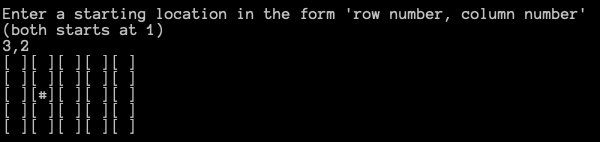
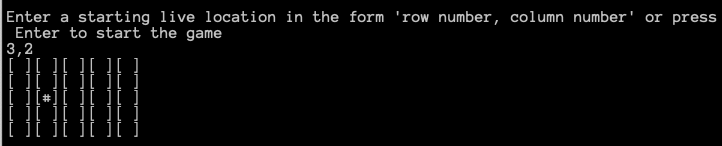
readme updated

Changed region(s): [[0.0, 0.0, 1.0, 1.0]]

diff --git a/README.md b/README.md
@@ -44,7 +44,7 @@ If using the CLI:
 1. CD into the ```kata_conways_game_of_life``` project
 2. Enter ```dotnet run Program.cs``` and press Enter to run
 
-# Deployment
+# Local Deployment
 
 1. Enter ```dotnet publish``` in the CLI
 2. To run the resultant application, navigate into the ```publish``` folder. The folder can be found within the ```bin``` directory. The path may be similar to this: ```<solution directory>/bin/Debug/netcoreapp3.1/publish```.
@@ -55,12 +55,10 @@ To run the published application, enter ```dotnet kata_conways_game_of_life.dll`
 ![Enter grid dimensions](images/app1.png)  
 2. Enter a coordinate in the form x,y to specify a starting live cell location
 ![Enter grid dimensions](images/app2.png)  
-3. Enter ```y``` to add another starting live cell location  
-![Enter grid dimensions](images/app3.png)  
-4. Repeat steps 2 and 3 until you no longer wish to add more starting live cell locations
-5. Enter any key other than ```y``` to begin the game
-6. The grid configuration will automatically update every second
-7. Once all the cells are dead or no cells will change state at the next tick, the application will terminate.
+3. Repeat step 2 to add additional coordinates
+4. Press Enter to begin the game
+5. The grid configuration will automatically update every second
+6. Once all the cells are dead or no cells will change state at the next tick, the application will terminate.
 
 ## Unit tests
 
@@ -80,10 +78,10 @@ The grid tests makes use of concrete ```Cell``` and ```Location``` objects to ch
 The ```Game``` tests uses concrete ```Grid```, ```Location``` and ```Cell``` objects to test the interaction of these different classes together. The final grid display ```string``` is used to check that the game loop has been executed correctly and that the resultant grid configuration is correct when given a starting configuration. The starting configuration is obtained by using a Mock IInput object to specify the starting live locations. 
 
 ### Validator tests  
-The ```Validator``` class methods returns a boolean to indicate if the input data is valid. The validator tests are used to verify that the validator methods' conditions are correct.  
+The ```Validator``` class methods returns a ```ValidationResult``` object to indicate if the input data is valid. If the parsed input is invalid, an error message will be stored. If the input is valid, the result will be stored. The validator tests are used to verify that the validator is returning either a result or error message as expected. 
 
 ### InputParser tests  
-The ```InputParser``` class methods are used to parse input data from string to either integer or boolean data types if the given input is valid. The tests are used to check that the recursive methods in the ```InputParser``` are working correctly, whereby only valid data is parsed.
+The ```InputParser``` class methods are used to parse input data from string to an integer array if the input coordinates are valid numbers. The tests are used to check that valid input can be parsed from string to integer, and if not, an exception is thrown.
 
 
 ## Dependencies
